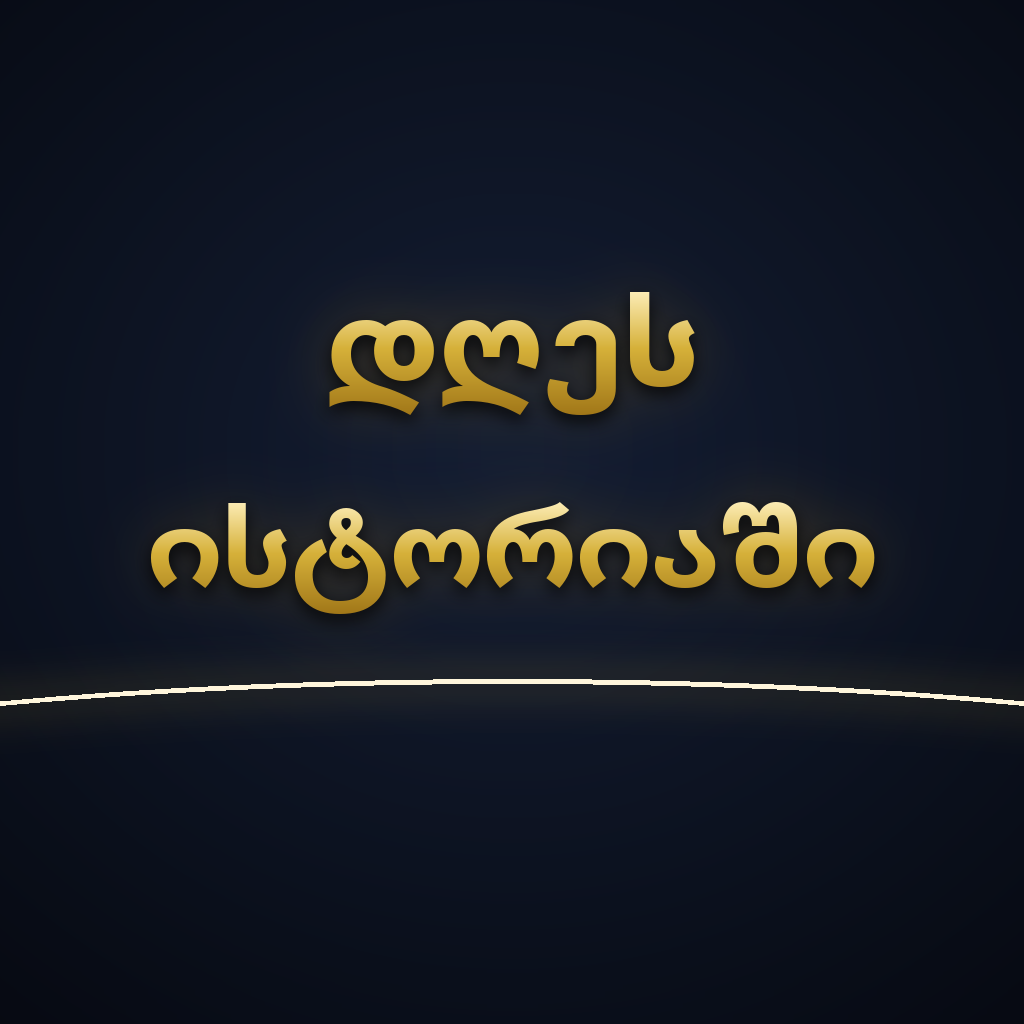
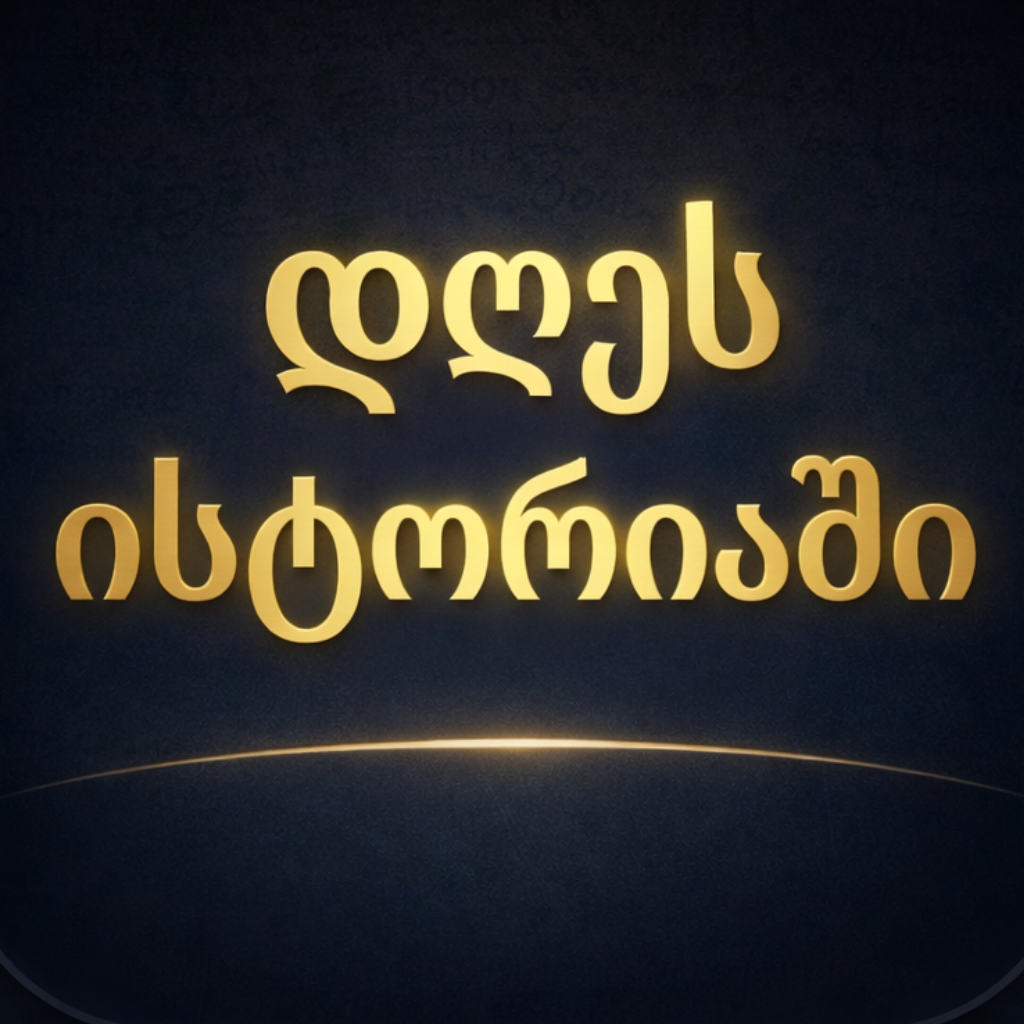
იკონის ტექსტი დაბრუნდა დიდ ზომაზე; გაზიარება აპის ბმულით
იკონი: „დაიხვეწა" კომიტმა ტექსტი შეამცირა და ეკრანზე ძლივს ჩანდა —
დაბრუნებულია წინა ვერსია, სადაც „ისტორიაში" კიდიდან კიდემდე იწერება.

გაზიარება: ისტორიის 40 სიტყვა და საიტის ბმული აღარ იგზავნება.
ახლა მიდის ბარათის სურათი + გვარი + App Store-ის ბმული.
მიზეზი: გაზიარებას აპიდან აკეთებს ის, ვისაც აპი მოსწონს — მიმღებს
აპის პოვნა სჭირდება. gvarigen.ge ისედაც ბარათზეა დატანილი.
Google Play-ზე აპი ჯერ არ არის, ამიტომ ორივეგან App Store-ის ბმულია.

diff --git a/app/(tabs)/explore.tsx b/app/(tabs)/explore.tsx
@@ -44,14 +44,14 @@ const surnamePageUrl = (crestCode?: string | null) =>
 const GERBI_URL = `${SITE}/gerbi-gverdi?${UTM}`;
 
 /**
- * გაზიარებული ბმული ცალკე უნდა ჩაიწეროს სტატისტიკაში — ეს აპში ღილაკზე
- * დაჭერა არ არის, არამედ მესამე პირის კლიკია. კამპანიის კუდს ვაცილებთ,
- * რომ მესენჯერში გრძელი ბმული არ გამოჩნდეს.
+ * გაზიარებისას აპის ბმული მიდის, და არა საიტის: გაზიარებას აპიდან აკეთებს
+ * ადამიანი, რომელსაც აპი მოსწონს — მიმღების კითხვაა „სად ვიშოვო ეს?".
+ * gvarigen.ge ისედაც ბარათზეა დატანილი, ანუ ბრენდი სურათთან ერთად მიდის.
+ *
+ * Google Play-ზე აპი ჯერ არ არის, ამიტომ ორივე პლატფორმაზე App Store-ის
+ * ბმულს ვაგზავნით. Play-ზე გამოქვეყნების შემდეგ აქ Platform.select დაემატება.
  */
-const sharedSurnameUrl = (crestCode?: string | null) =>
-  crestCode
-    ? `${SITE}/gvari/${crestCode}?utm_source=app&utm_medium=share`
-    : `${SITE}/gvarebi?utm_source=app&utm_medium=share`;
+const APP_STORE_URL = "https://apps.apple.com/app/id6760388933";
 
 /** მოკვლევის შეკვეთა — აკრეფილი გვარი ფორმაში გადადის. */
 const orderResearchUrl = (surname: string) =>
@@ -172,9 +172,9 @@ export default function ExploreScreen() {
   const shareSurname = async () => {
     if (!dailySurname || sharing) return;
 
-    const message =
-      `${dailySurname.surname}\n\n${getDailyText(historyText(dailySurname))}\n\n` +
-      `სრული ისტორია: ${sharedSurnameUrl(dailySurname.crest_code)}`;
+    // ისტორია ბარათზევე წერია — ტექსტში მხოლოდ გვარი და ბმული მიდის.
+    // გვარი განზრახ რჩება: ჩატის ისტორიაში ტექსტით ძებნა მუშაობს, სურათით — არა.
+    const message = `${dailySurname.surname}\n\n${APP_STORE_URL}`;
 
     setSharing(true);
     try {
